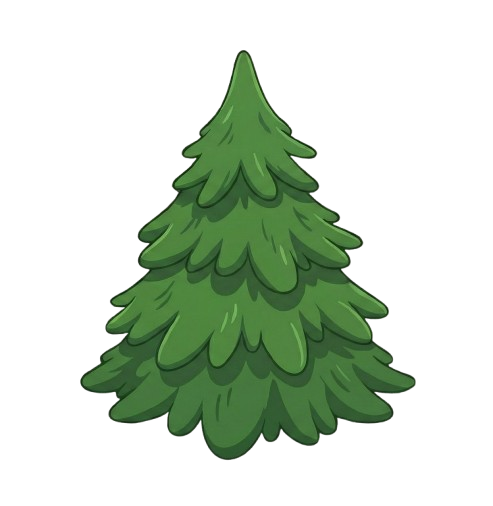
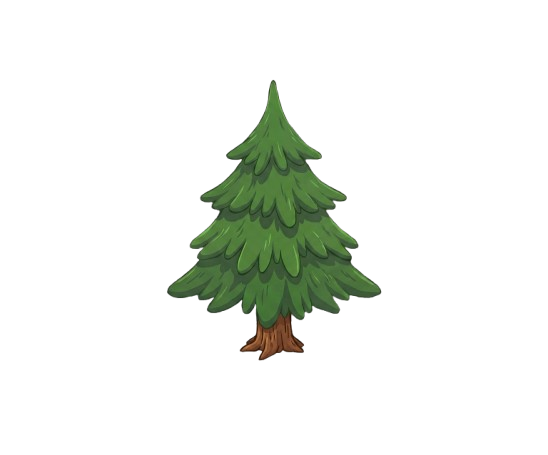
grafik 5

Changed region(s): [[0.1521, 0.0923, 0.8519, 0.9231]]

diff --git a/index.html b/index.html
@@ -308,6 +308,8 @@
   // Image assets
   const santaImg = new Image();
   santaImg.src = 'santa.png';
+  santaImg.onload = () => console.log('Santa image loaded successfully!');
+  santaImg.onerror = () => console.error('Error loading santa.png. Check filename!');
   const bgImg = new Image();
   bgImg.src = 'bg.png';
   const starImg = new Image();
@@ -1374,10 +1376,11 @@
     ctx.closePath();
   }
 
-  // 1. VISUALS: Santa using image asset (simplified, always visible)
+  // 1. VISUALS: Santa using image asset with safe fallback
   function drawSanta(x, y) {
     const w = 80;
     const h = 80;
+    let drawX = x;
     let drawY = y;
 
     // Small recoil: move Santa slightly down right after a shot
@@ -1385,8 +1388,17 @@
       drawY += 5;
     }
 
-    // Draw the sprite centered at (x, drawY)
-    ctx.drawImage(santaImg, x - w / 2, drawY - h / 2, w, h);
+    // If image is not loaded yet, draw a simple red circle as placeholder
+    if (!santaImg.complete || santaImg.naturalWidth === 0) {
+      ctx.fillStyle = 'red';
+      ctx.beginPath();
+      ctx.arc(drawX, drawY, 20, 0, Math.PI * 2);
+      ctx.fill();
+      return;
+    }
+
+    // Draw the sprite centered at (drawX, drawY)
+    ctx.drawImage(santaImg, drawX - w / 2, drawY - h / 2, w, h);
   }
 
   // Game Loop
